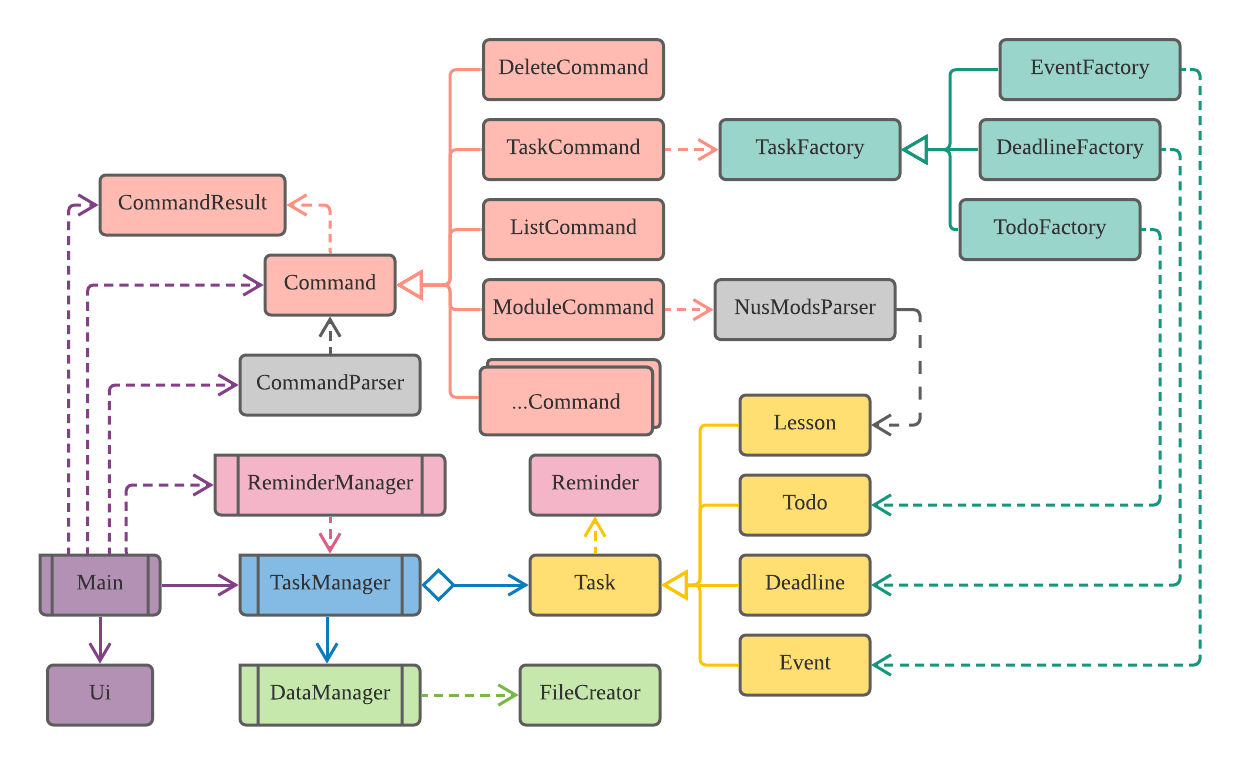
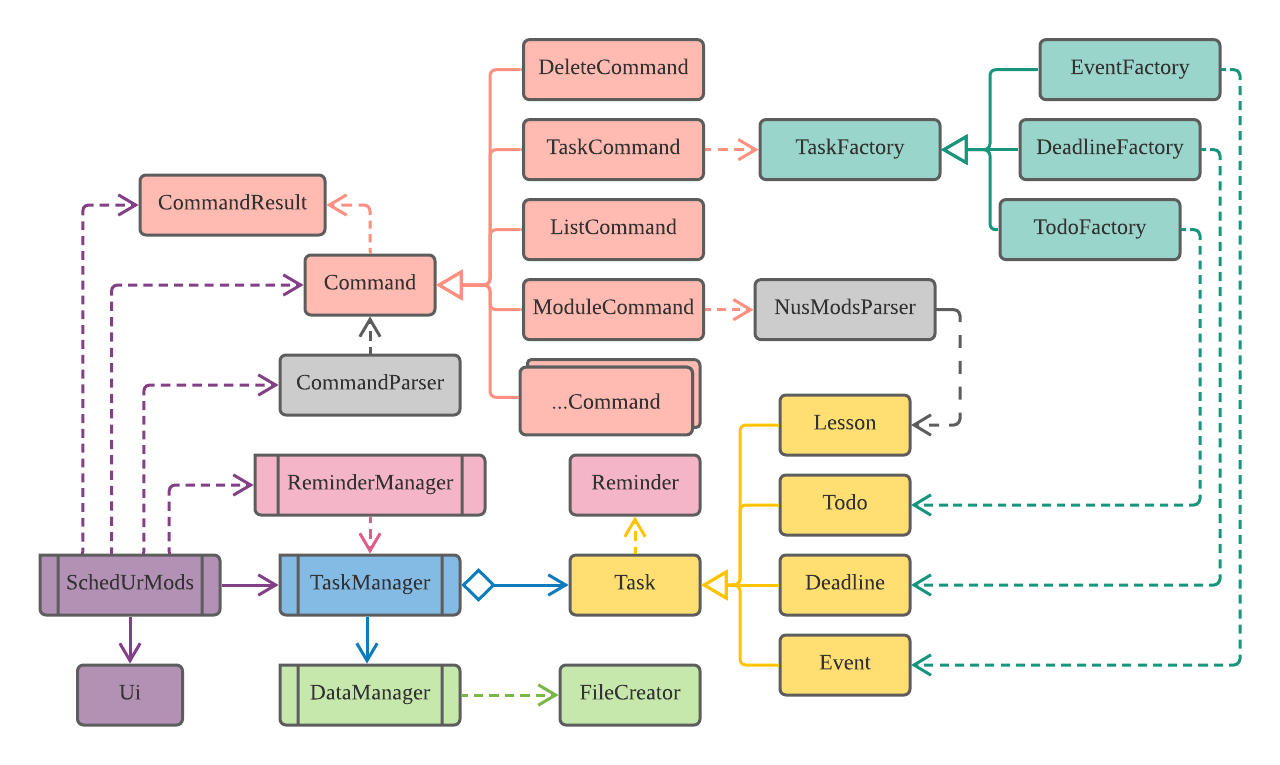
Fix logger class, make FileCreator check that file wasn't already in use

diff --git a/src/main/java/seedu/tp/storage/FileCreator.java b/src/main/java/seedu/tp/storage/FileCreator.java
@@ -13,8 +13,12 @@ public class FileCreator {
     private static final String LIST_STORAGE_FILE = "tasks.dat";
 
     private File taskFile;
+    private boolean hasCreatedFolder = true;
     private static final String IO_EXCEPTION_MESSAGE = "IO Exception occurred while trying to create "
-        + "file for saving tasks: %s";
+        + "file for saving tasks: " + LIST_STORAGE_FOLDER + LIST_STORAGE_FILE;
+
+    private static final String FILE_ALREADY_EXISTS = "File 'data' already exists in project folder."
+        + " Please remove it and restart the application to be able to save tasks!";
 
     /**
      * Creates the files required for storing tasks if they are not already created.
@@ -24,12 +28,16 @@ public class FileCreator {
         try {
             taskFile = createFile(LIST_STORAGE_FOLDER + LIST_STORAGE_FILE);
         } catch (IOException e) {
-            Log.severe(String.format(IO_EXCEPTION_MESSAGE, getTaskFileName()));
+            Log.severe(IO_EXCEPTION_MESSAGE);
         }
     }
 
     private void createFolder() {
         File newFolder = new File(LIST_STORAGE_FOLDER);
+        if (newFolder.exists() && !newFolder.isDirectory()) {
+            Log.severe(FILE_ALREADY_EXISTS);
+            hasCreatedFolder = false;
+        }
         if (!newFolder.exists()) {
             newFolder.mkdir();
         }
@@ -55,5 +63,12 @@ public class FileCreator {
      */
     public String getTaskFileName() {
         return taskFile.getAbsolutePath();
+    }
+
+    /**
+     * Returns whether the {@link #LIST_STORAGE_FOLDER} has been created.
+     */
+    public boolean hasCreatedFolder() {
+        return hasCreatedFolder;
     }
 }

diff --git a/src/main/java/seedu/tp/SchedUrMods.java b/src/main/java/seedu/tp/SchedUrMods.java
@@ -17,8 +17,12 @@ public class SchedUrMods {
         ui = new Ui();
 
         FileCreator fileCreator = new FileCreator();
-        DataManager dataManager = new DataManager(fileCreator);
-        taskManager = new TaskManager(dataManager);
+        if (fileCreator.hasCreatedFolder()) {
+            DataManager dataManager = new DataManager(fileCreator);
+            taskManager = new TaskManager(dataManager);
+        } else {
+            taskManager = new TaskManager();
+        }
     }
 
     public CommandResult runCommand(Command userCommand) {

diff --git a/src/main/java/seedu/tp/log/Log.java b/src/main/java/seedu/tp/log/Log.java
@@ -23,7 +23,7 @@ public class Log {
     private static final String LOG_FORMAT = "[%1$tF %1$tT] [%2$-7s]%n%4$s: %3$s %n";
     private static final String IOEXCEPTION_MESSAGE = "Failed to initialise log file.";
 
-    private static final int METHOD_STACKTRACE_POSITION = 3;
+    private static final int METHOD_STACKTRACE_POSITION = 4;
 
     private static final boolean DO_APPEND_TO_FILE = true;
     private static final boolean USE_DEFAULT_HANDLERS = false;
